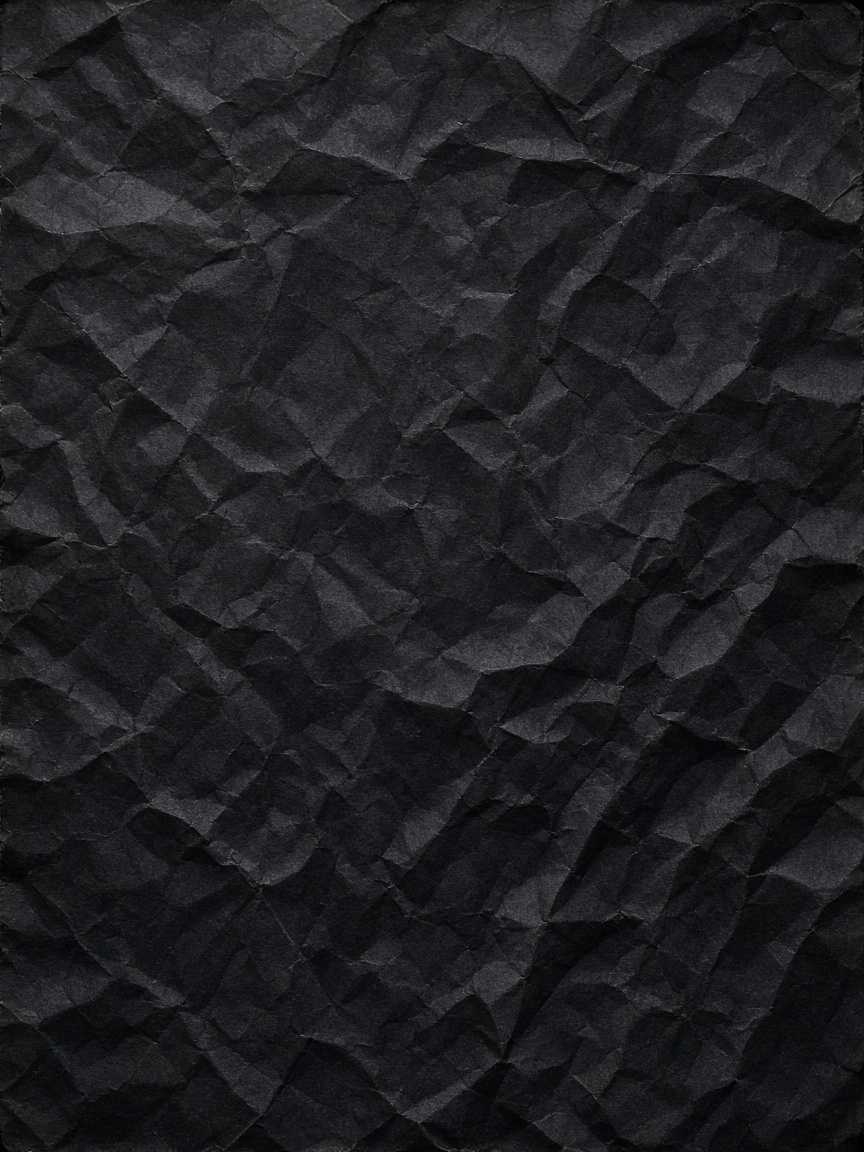
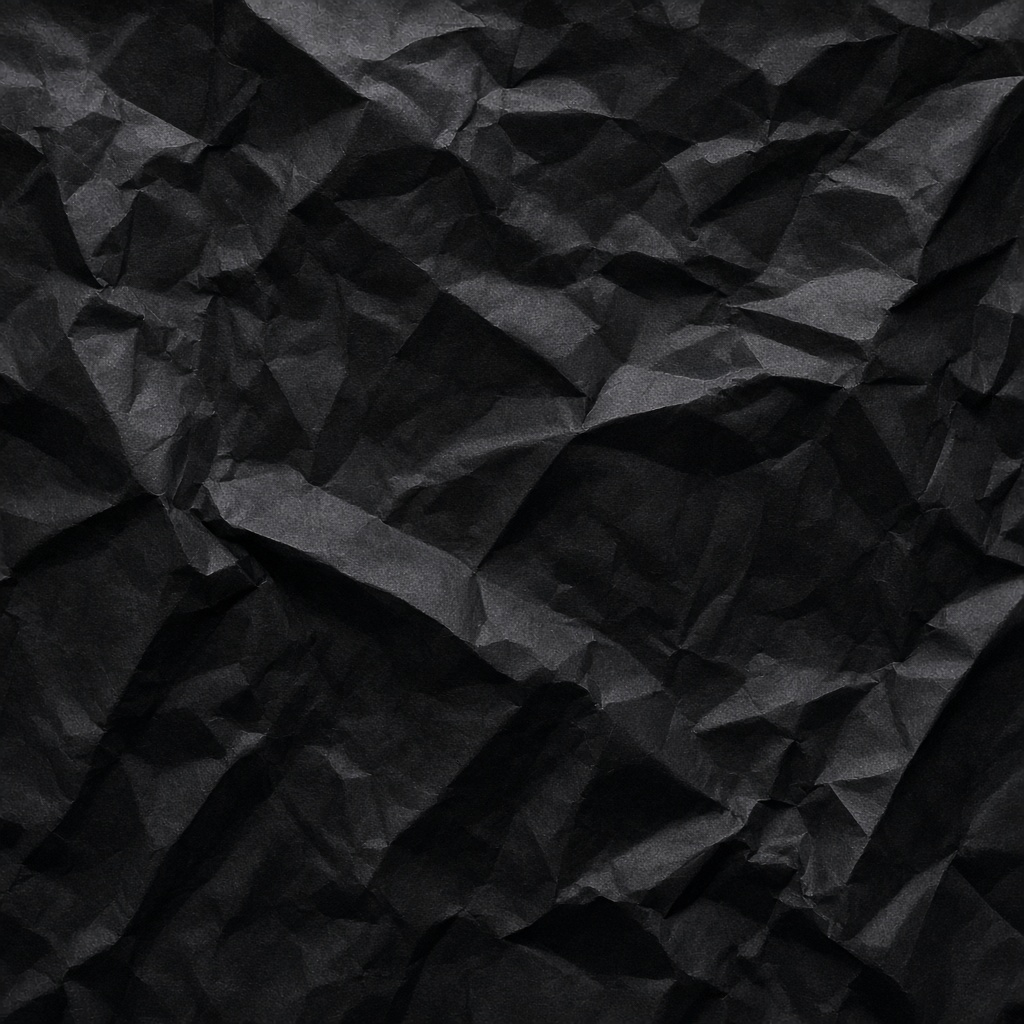
Make the homepage hero a full-bleed crinkled black paper stage.
Replace the tiny boxed poster on flat black with one continuous paper
sheet across the first viewport, enlarge the foot glow as the main
focal piece, and screen-blend the x-ray so its black canvas disappears
into the paper.

diff --git a/web/src/app/globals.css b/web/src/app/globals.css
@@ -139,11 +139,59 @@ video {
 }
 
 /*
-  Homepage hero: solid black behind the GIF so the white headline stays
-  readable. Shop panels use the hex honeycomb.
+  Homepage hero: solid black by default. The top stage (.hero-paper) is a
+  full-bleed crinkled black poster sheet. Shop panels use the hex honeycomb.
 */
 .hero-stage {
   background-color: #000;
+}
+
+.hero-paper {
+  background-color: #050505;
+  min-height: min(92svh, 56rem);
+}
+
+.hero-paper-sheet {
+  position: absolute;
+  inset: 0;
+  z-index: 0;
+  width: 100%;
+  height: 100%;
+  object-fit: cover;
+  object-position: center 28%;
+  pointer-events: none;
+  user-select: none;
+  filter: contrast(1.5) brightness(1.55) saturate(0.85);
+}
+
+.hero-paper::after {
+  content: "";
+  position: absolute;
+  inset: 0;
+  z-index: 0;
+  pointer-events: none;
+  background: linear-gradient(180deg, rgb(0 0 0 / 0.04), transparent 32%, rgb(0 0 0 / 0.16));
+}
+
+.hero-paper-kicker {
+  color: #f0f0f0;
+  text-shadow: 0 1px 12px rgb(0 0 0 / 0.55);
+}
+
+.hero-paper-title {
+  color: #fff;
+  text-shadow: 0 2px 24px rgb(0 0 0 / 0.55);
+}
+
+.hero-paper-support {
+  color: #e8e8e8;
+  text-shadow: 0 1px 14px rgb(0 0 0 / 0.5);
+}
+
+.hero-foot-glow {
+  width: 100%;
+  /* Avoid transform/filter on this wrapper — either one isolates blend
+     modes and would trap the x-ray's black canvas as a flat box. */
 }
 
 .bg-texture-white {
@@ -689,22 +737,20 @@ html.site-dark ::selection {
 }
 
 .foot-glow-hero-frame {
-  overflow: hidden;
+  overflow: visible;
+  isolation: auto;
+  background-color: transparent !important;
 }
 
+/* Punch out the PNG's black so bones float on the full-bleed paper sheet. */
 .foot-glow-hero-frame .foot-glow-layer {
-  object-fit: cover;
-  object-position: center top;
-  /*
-    The x-ray PNG has ~8.3% empty canvas above the glow and ~7.5% below.
-    Shift and enlarge so the glow meets the header with no black strip.
-  */
-  inset: auto;
-  left: 0;
-  right: 0;
-  top: -10%;
-  width: 100%;
-  height: 120%;
+  object-fit: contain;
+  object-position: center center;
+  mix-blend-mode: screen;
+}
+
+.foot-glow-hero-frame .foot-glow-hatch {
+  mix-blend-mode: screen;
 }
 
 .foot-glow-print-frame {

diff --git a/web/src/app/page.tsx b/web/src/app/page.tsx
@@ -39,18 +39,31 @@ function HomeSlide() {
 export default function Home() {
   return (
     <div className="relative">
-      <section className="hero-stage relative overflow-hidden bg-black">
-        <div className="relative z-[1] mx-auto max-w-7xl px-4 pb-10 pt-6 sm:px-6 sm:pb-12 sm:pt-8 lg:px-8">
-          <FootGlowSection hero />
+      <section className="hero-stage hero-paper relative overflow-hidden">
+        {/* eslint-disable-next-line @next/next/no-img-element -- full-bleed paper plane */}
+        <img
+          src="/graphics/crinkled-poster.jpg"
+          alt=""
+          aria-hidden
+          className="hero-paper-sheet"
+        />
+        <div className="relative z-[1] mx-auto flex w-full max-w-7xl flex-col px-4 pb-12 pt-8 sm:px-6 sm:pb-16 sm:pt-10 lg:px-8">
+          <div className="mx-auto w-full max-w-3xl sm:max-w-4xl md:max-w-5xl">
+            <FootGlowSection hero />
+          </div>
 
-          <div className="mx-auto mt-8 w-full max-w-xl space-y-3 sm:mt-10 sm:space-y-4">
-            <p className="uppercase tracking-[0.18em] text-[11px] sm:text-xs font-medium text-neutral-300">
+          <div className="mt-8 w-full max-w-xl space-y-3 sm:mt-10 sm:space-y-4">
+            <p className="hero-paper-kicker uppercase tracking-[0.18em] text-[11px] sm:text-xs font-medium">
               Voronyz Engineering
             </p>
 
-            <h1 className="text-3xl xs:text-4xl sm:text-5xl md:text-6xl font-semibold leading-[1.08] sm:leading-[1.1] tracking-tight text-white">
+            <h1 className="hero-paper-title text-3xl xs:text-4xl sm:text-5xl md:text-6xl font-semibold leading-[1.08] sm:leading-[1.1] tracking-tight">
               3D Printed<br className="hidden sm:block" /> Footwear
             </h1>
+
+            <p className="hero-paper-support text-base leading-relaxed sm:text-lg">
+              Shaped around your foot.
+            </p>
           </div>
         </div>
       </section>

diff --git a/web/src/components/FootGlowSection.tsx b/web/src/components/FootGlowSection.tsx
@@ -9,7 +9,7 @@ type FootGlowSectionProps = {
    * Homepage keeps the foot x-ray. All Footwear uses a separate lattice-shoe outline.
    */
   variant?: "xray" | "print";
-  /** Homepage hero. The x-ray sits on a small crinkled poster. */
+  /** Homepage hero. Dominant foot glow on the full-bleed paper stage. */
   hero?: boolean;
   /** Sits under the poster, left-aligned, so it never covers the artwork. */
   caption?: ReactNode;
@@ -58,9 +58,9 @@ export default function FootGlowSection({
 }: FootGlowSectionProps) {
   const xray = (
         <div
-          className={`foot-glow-frame relative aspect-[2000/1399] w-full bg-black ${
-            poster ? "foot-glow-poster-frame" : ""
-          }`}
+          className={`foot-glow-frame relative aspect-[2000/1399] w-full ${
+            hero ? "foot-glow-hero-frame" : "bg-black"
+          } ${poster ? "foot-glow-poster-frame" : ""}`}
         >
           {/* eslint-disable-next-line @next/next/no-img-element -- keep the uploaded PNG bytes, no optimizer */}
           <img
@@ -86,8 +86,8 @@ export default function FootGlowSection({
 
   if (hero) {
     return (
-      <div className={`bg-black ${className}`}>
-        <GlowPoster compact>{xray}</GlowPoster>
+      <div aria-hidden className={`hero-foot-glow ${className}`}>
+        {xray}
       </div>
     );
   }

diff --git a/web/src/app/globals-hex-dark.test.ts b/web/src/app/globals-hex-dark.test.ts
@@ -28,6 +28,17 @@ test("homepage hero stage stays black and does not reuse the shop hex tile", () 
   assert.match(hero[0], /background-color:\s*#000/);
 });
 
+test("top hero fills the viewport with clearly crinkled black paper", () => {
+  assert.match(home, /hero-paper/);
+  assert.match(home, /hero-paper-sheet/);
+  assert.match(home, /crinkled-poster\.jpg/);
+  const sheet = css.match(/\.hero-paper-sheet \{[\s\S]*?\n\}/);
+  assert.ok(sheet, "expected a full-bleed paper sheet on the top hero");
+  assert.match(sheet[0], /object-fit:\s*cover/);
+  assert.match(home, /max-w-5xl/);
+  assert.doesNotMatch(home, /glow-poster-compact/);
+});
+
 test("shop hex tiles stay static and are not pointer-driven", () => {
   const shopMesh = css.match(/\.bg-texture-white::before \{[\s\S]*?\n\}/);
   assert.ok(shopMesh, "expected a hex overlay on shop panels");
@@ -61,4 +72,5 @@ test("hero stage has no colorful Voronoi topology behind the GIF", () => {
   assert.ok(hero, "expected a homepage hero stage");
   assert.match(hero[0], /background-color:\s*#000/);
   assert.doesNotMatch(hero[0], /background-image/);
+  assert.doesNotMatch(css, /\.hero-paper::before \{[\s\S]*?#ff4d6d/);
 });
